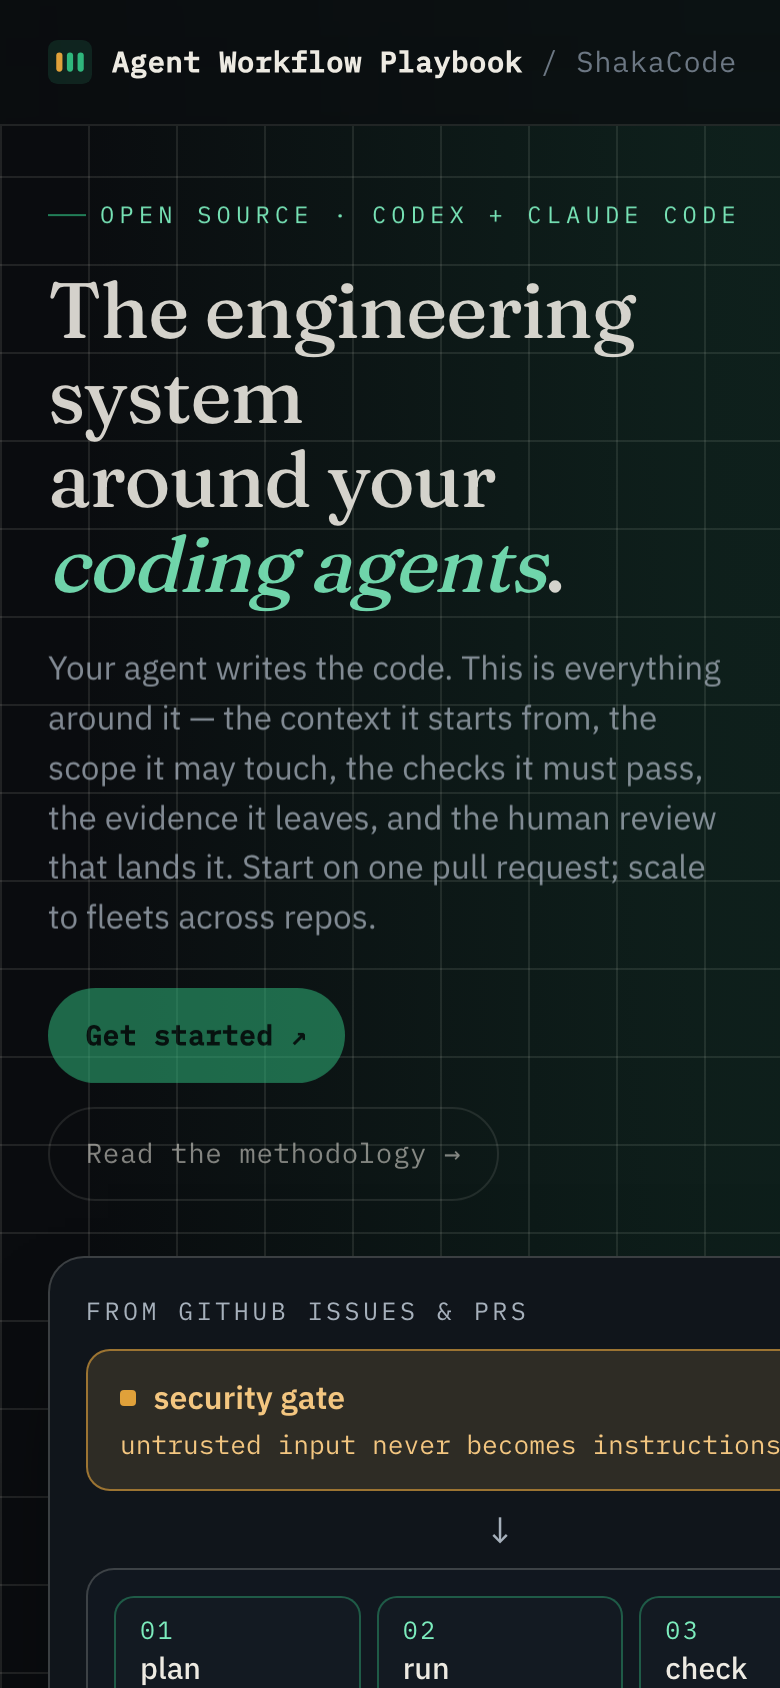
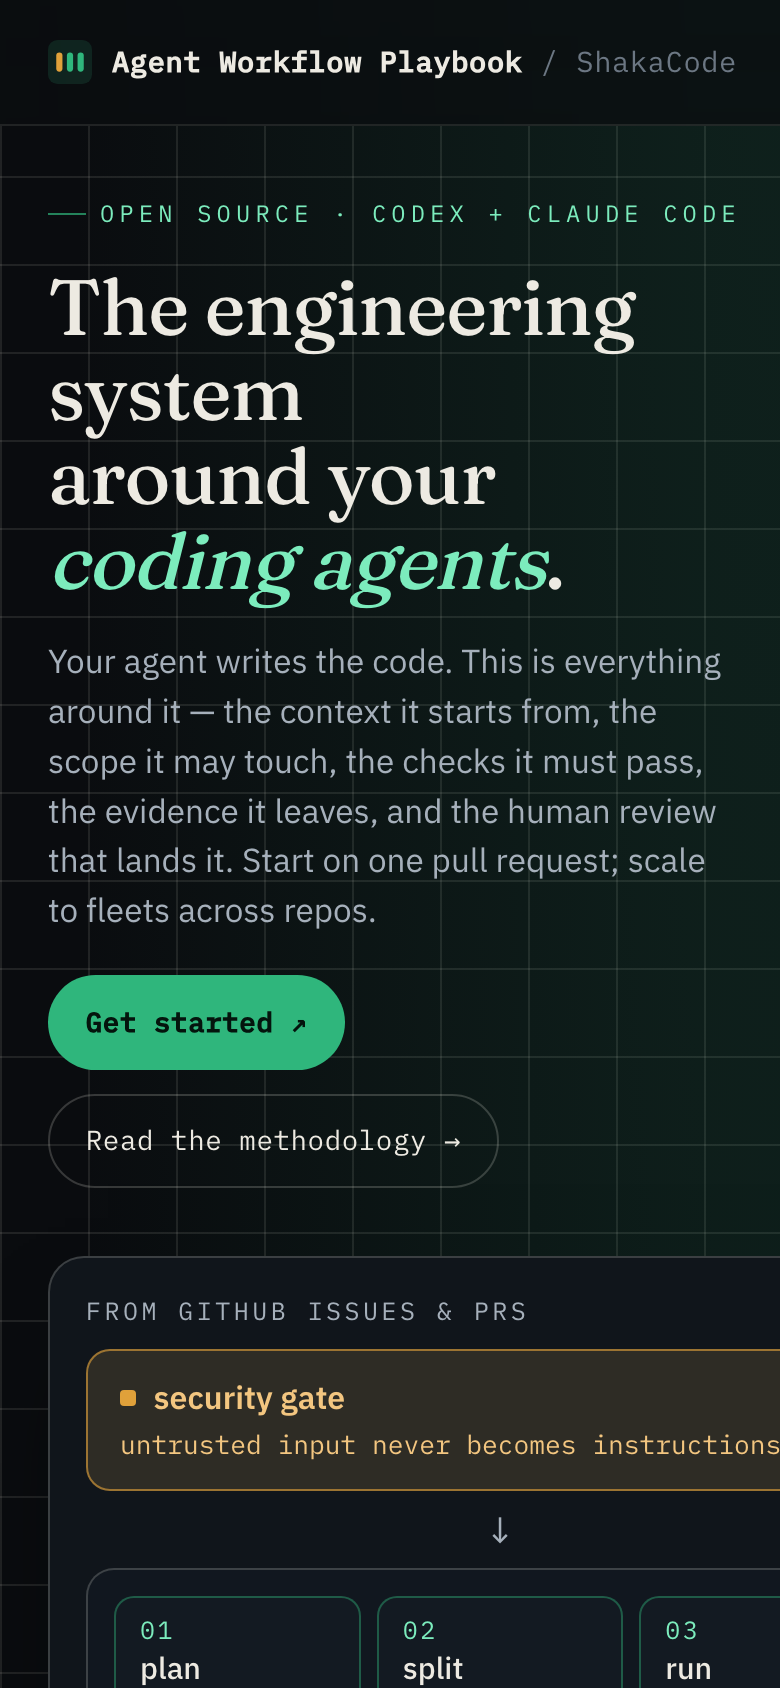
Refresh QA evidence for the split/run stage labels
- Retake all six screenshots with --force-prefers-reduced-motion so the
  hero's staggered reveal cannot race the capture; before and after are
  now the settled page and directly comparable.
- Add the .lc-stage geometry table across main, the first pass and the
  shipped labels: identical at 320/390/768/1024/1440, so renaming a stage
  moved nothing.
- Correct the rail string length to 53 characters (both strings).
- Record the two deliberate gaps: no regression guard yet (deferred, it
  collides with PR #26's package.json change) and the #safety heading
  still says "Security preflight".

Changed region(s): [[0.0615, 0.154, 0.9231, 0.7085], [0.8615, 0.9858, 0.9538, 1.0], [0.5231, 0.9858, 0.6154, 1.0]]

diff --git a/qa/awc-c-issue-17-hero-jargon/QA-NOTES.md b/qa/awc-c-issue-17-hero-jargon/QA-NOTES.md
@@ -1,7 +1,7 @@
 # QA evidence — issue #17, hero diagram plain language
 
 Lane `issue-17-hero-jargon`, batch `awc-c-20260901`.
-PR branch: `awc-c/issue-17-hero-plain-language` @ `aedba56`.
+PR branch: `awc-c/issue-17-hero-plain-language` @ `7667ce4`.
 Only `src/components/BatchLifecycle.astro` changed — text nodes, the `aria-label`,
 and code comments. No CSS rule, colour, spacing or breakpoint was touched.
 
@@ -21,8 +21,18 @@ was modified.
 | `before-390x1400-diagram.png` | 390x1400 | taller mobile capture so the whole diagram is visible before |
 | `after-390x1400-diagram.png` | 390x1400 | same, after |
 
-All captured at `--force-device-scale-factor=2` against `astro preview` on
-127.0.0.1:4321 with headless Chrome 152.
+All captured at `--force-device-scale-factor=2 --force-prefers-reduced-motion`
+against `astro preview` on 127.0.0.1:4321 with headless Chrome 152. The
+reduced-motion flag matters: the hero copy uses a CSS `.stagger` reveal, and
+without it the screenshot races the animation and can catch the left column
+mid-fade. With it, every capture is the settled page, so before and after are
+directly comparable.
+
+The five stage labels are `plan / split / run / review / audit`, the
+plain-language mirror of the `#how` list in `src/pages/index.astro`
+(`plan-pr-batch` -> plan, `triage` -> split, `pr-batch` -> run,
+`adversarial-pr-review` -> review, `post-merge-audit` -> audit), so the hero's
+numbering and `#how`'s numbering line up position for position.
 
 ## Rendered label sizes — before vs after
 
@@ -73,8 +83,25 @@ The single delta is the gate sub-label `untrusted input never becomes
 instructions` taking two lines at 390 where `untrusted text ≠ instructions` took
 one. It already took two lines at 320 before this change, and it stays on one
 line at 768, 1024 and 1440. The replacement rail string was chosen at the same
-length as the one it replaces (52 characters), which is why the rail height is
-unchanged at every width.
+length as the one it replaces (53 characters each), which is why the rail height
+is unchanged at every width.
+
+### Stage box geometry — `.lc-stage` width x height
+
+Measured on `main`, on the first pass (`run` / `check`), and on the shipped
+labels (`split` / `run`). The chips are `flex: 1 1 112px`, so they are sized by
+the flex line, not by their text; renaming a stage moves nothing.
+
+| Width | main (`plan/triage/pr-batch/review/audit`) | first pass (`plan/run/check/review/audit`) | shipped (`plan/split/run/review/audit`) |
+| --- | --- | --- | --- |
+| 320 | 73, 73, 73, 73, 180 | 73, 73, 73, 73, 180 | 73, 73, 73, 73, 180 |
+| 390 | 108, 108, 108, 108, 250 | 108, 108, 108, 108, 250 | 108, 108, 108, 108, 250 |
+| 768 | 96, 96, 96, 96, 96 | 96, 96, 96, 96, 96 | 96, 96, 96, 96, 96 |
+| 1024 | 105, 105, 105, 174, 174 | 105, 105, 105, 174, 174 | 105, 105, 105, 174, 174 |
+| 1440 | 119, 119, 119, 195, 195 | 119, 119, 119, 195, 195 | 119, 119, 119, 195, 195 |
+
+All heights are 20px in every cell. Identical at every width in all three
+revisions — `split` did not change a box.
 
 ## Overflow check
 
@@ -152,7 +179,7 @@ across repos. |
 Get started ↗ | Read the methodology → |
 from github issues & prs |
 security gate | untrusted input never becomes instructions | ↓ |
-01 plan | 02 run | 03 check | 04 review | 05 audit |
+01 plan | 02 split | 03 run | 04 review | 05 audit |
 backed by shared coordination, so parallel agents never collide |
 How the work moves — the amber gate is the differentiator: untrusted input is
 checked before an agent ever acts on it. The same path runs for one lane or many.
@@ -161,3 +188,14 @@ checked before an agent ever acts on it. The same path runs for one lane or many
 Nothing above the fold is project-specific vocabulary any more. The nav labels
 (`The stack`, `Distributions`) are pre-existing site navigation, outside this
 lane's scope.
+
+## Known gaps, deliberately not closed here
+
+- **No regression guard.** Nothing stops a future edit from putting a term back
+  above `#problem`. A `scripts/check-hero-plain-language.mjs` asserting the term
+  list is absent before the anchor is the right fix, but wiring it into
+  `npm test` collides with PR #26's pending `package.json` change, so it is
+  deferred to a follow-up rather than raced here.
+- **`#safety` still says "Security preflight".** The hero now says
+  "security gate" and nothing bridges the two names for a reader who scrolls.
+  That is `src/pages/index.astro`, outside this lane's single-file scope.
